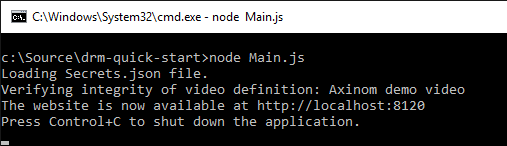
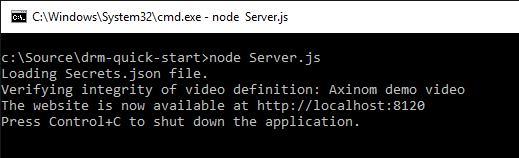
Main.js -> Server.js

diff --git a/Readme.md b/Readme.md
@@ -37,7 +37,7 @@ Follow the instructions below to run this sample project and go through the firs
 1. Clone or download this Git repository (the one that you are currently reading).
 1. Open a command prompt window and go to the directory where you placed the repository's files (e.g. *C:\Source\drm-quick-start*).
 1. Install required 3rd party packages by executing the following command: *npm install*
-1. Run the application by executing the following command: *node Main.js*
+1. Run the application by executing the following command: *node Server.js*
 ![](Images/Sample - start app.png)
 1. If everything went well, the output from this command will instruct you to open [http://localhost:8120](http://localhost:8120) in your browser. Do so.
 
@@ -55,7 +55,7 @@ The sample project implements a basic website that enables the user to select a 
 
 The main building blocks of the sample are:
 
-* *Main.js* - creates an HTTP server that publishes the website, the website API and the authorization service.
+* *Server.js* - creates an HTTP server that publishes the website, the website API and the authorization service.
 * *VideoDatabase.js* - defines the list of videos made available to the user.
 * *WebsiteApi.js* - implements the website API that is used by browser-side JavaScript code to obtain the list of videos.
 * *AuthorizationServiceApi.js* - implements the authorization service API that makes authorization decisions when the browser-side JavaScript code requests permission to play back content; license tokens are provided by this API.
@@ -96,7 +96,7 @@ To modify the project for the second sample scenario, open *VideoDatabase.js* an
 }
 ``` 
 
-Now, create a file *Secrets.json* based on the sample below and place it in the same directory as *Main.js*. **Replace the example data below with real values from the Axinom DRM Fact Sheet**.
+Now, create a file *Secrets.json* based on the sample below and place it in the same directory as *Server.js*. **Replace the example data below with real values from the Axinom DRM Fact Sheet**.
 
 ```
 {
